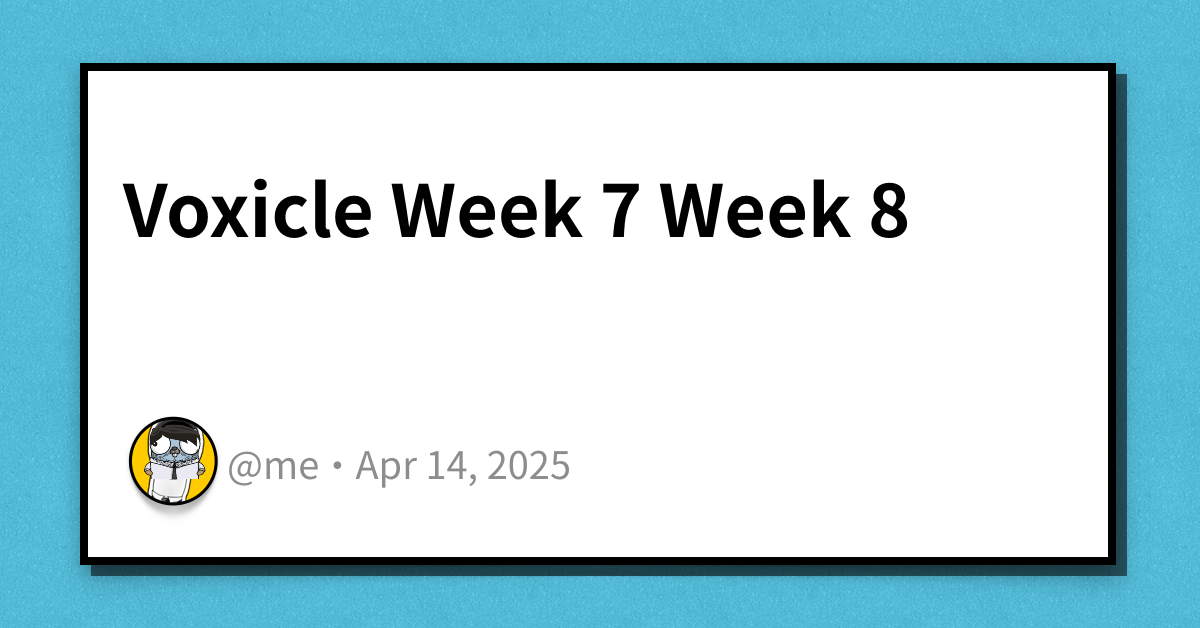
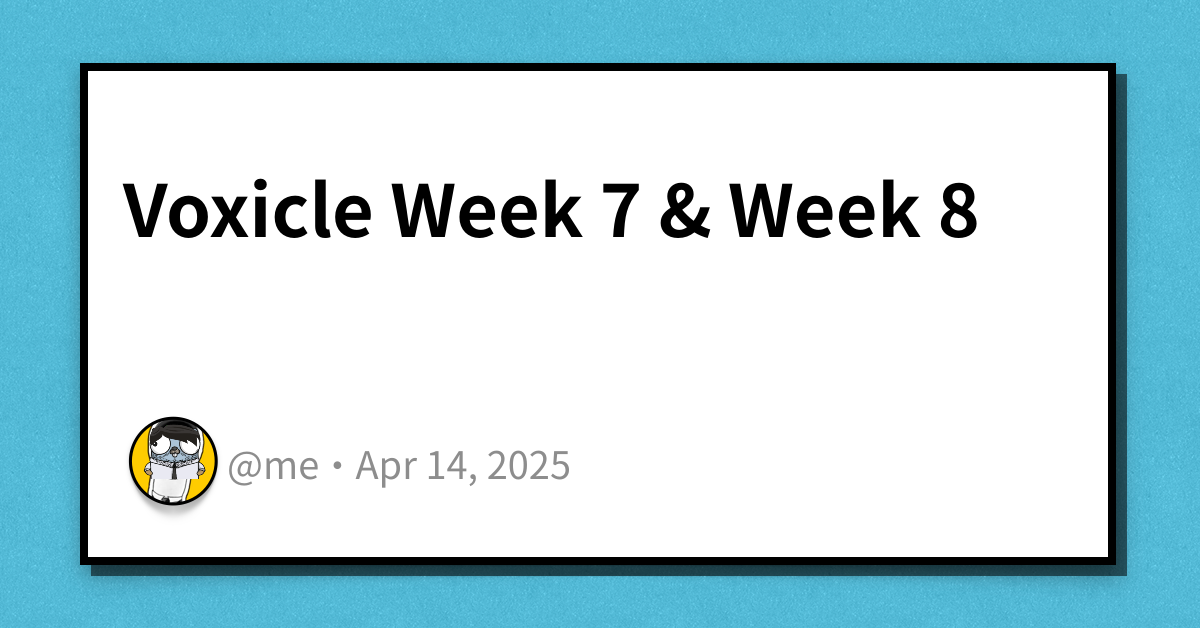
2025 04 14 voxicle week 7 week 8

Changed region(s): [[0.5242, 0.2723, 0.8325, 0.3933]]

diff --git a/content/posts/2025-04-14-voxicle-week-7-week-8/index.md b/content/posts/2025-04-14-voxicle-week-7-week-8/index.md
@@ -1,5 +1,5 @@
 ---
-title: Voxicle Week 7 Week 8
+title: Voxicle Week 7 & Week 8
 date: 2025-04-14
 canonicalURL: https://haseebmajid.dev/posts/2025-04-14-voxicle-week-7-week-8
 tags:
